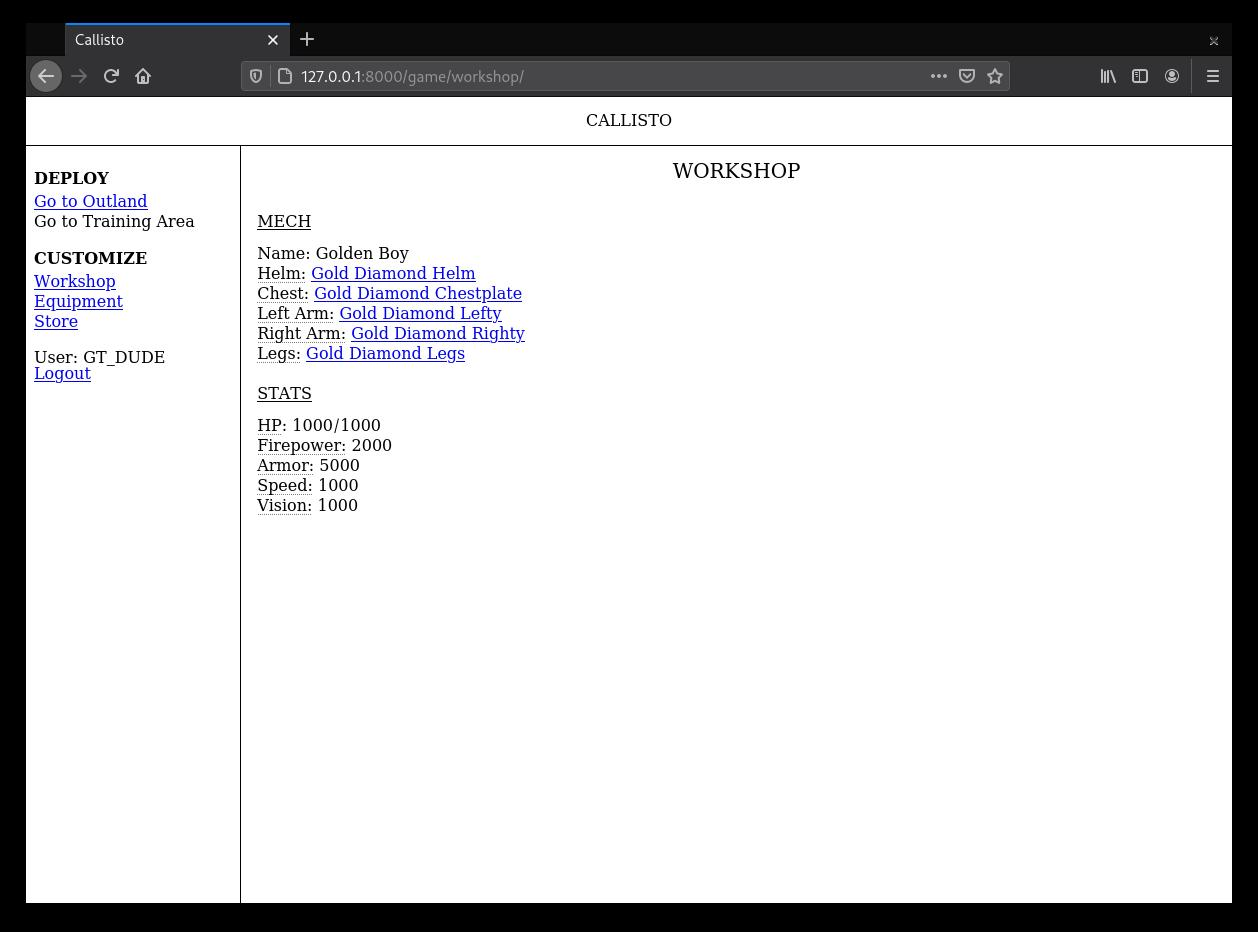
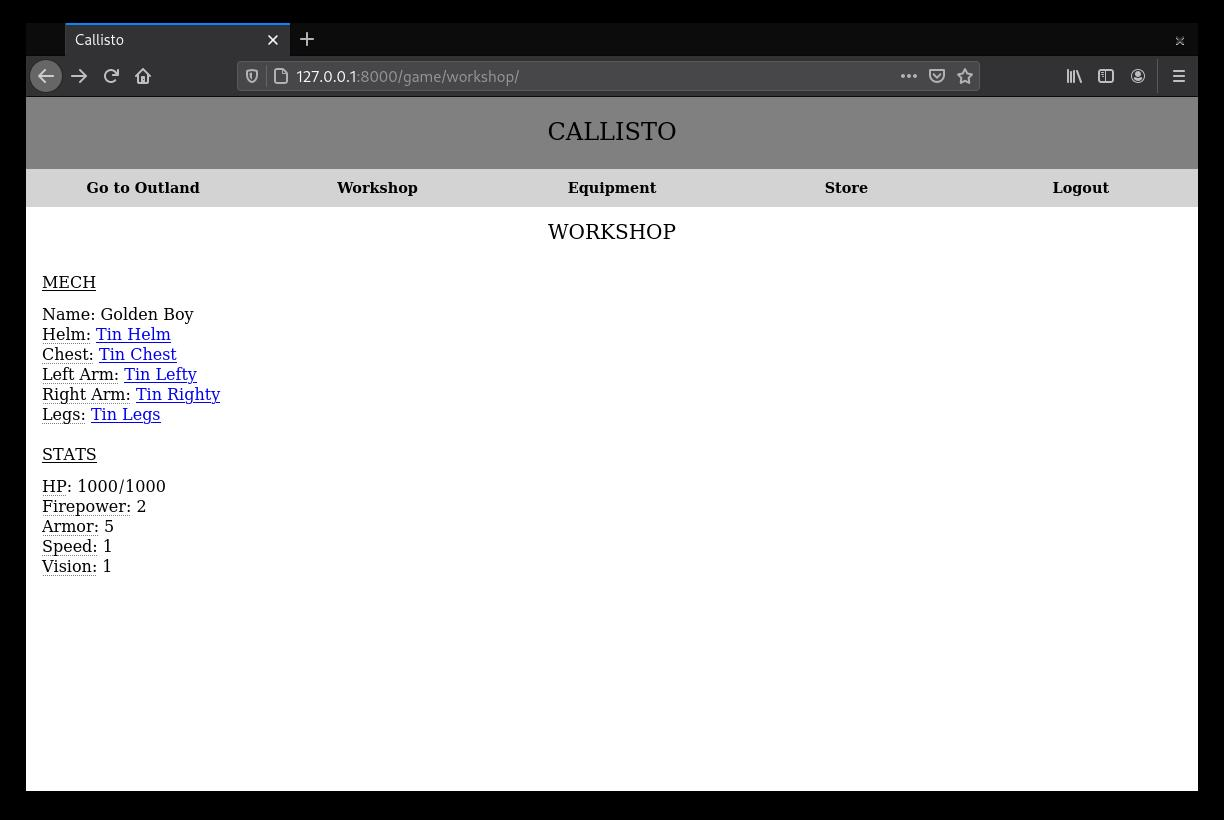
made slight changes to sizing and padding in header and nav bar. created new screenshots

Changed region(s): [[0.0, 0.0, 0.9935, 0.5488], [0.031, 0.9451, 0.9935, 0.9756], [0.031, 0.5488, 0.1242, 0.7012]]

diff --git a/game/static/css/styles.css b/game/static/css/styles.css
@@ -4,6 +4,7 @@
 html {
     height: 100%;
     box-sizing: border-box;
+    font-size: 16px;
 }
 
 *, *:before, *:after {
@@ -26,8 +27,10 @@ main.Game {
 header.Banner {
     display: flex;
     justify-content: space-around;
-    padding: 2rem;
+    padding: 1.5rem;
     background-color: grey;
+    text-transform: uppercase;
+    font-size: 1.5rem;
 }
 
 h1.BannerText {
@@ -38,7 +41,6 @@ h1.BannerText {
 
 nav.Navigation {
     display: flex;
-    justify-content: space-around;
     background-color: lightgrey;
 }
 
@@ -48,12 +50,12 @@ nav.Navigation > a {
     color: black;
     font-weight: bold;
     text-decoration: none;
-    padding: 1rem;
+    font-size: 0.9rem;
+    padding: 0.75rem;
 }
 
 nav.Navigation > a:hover {
     background-color: grey;
-    text-decoration: underline;
 }
 
 .row {
